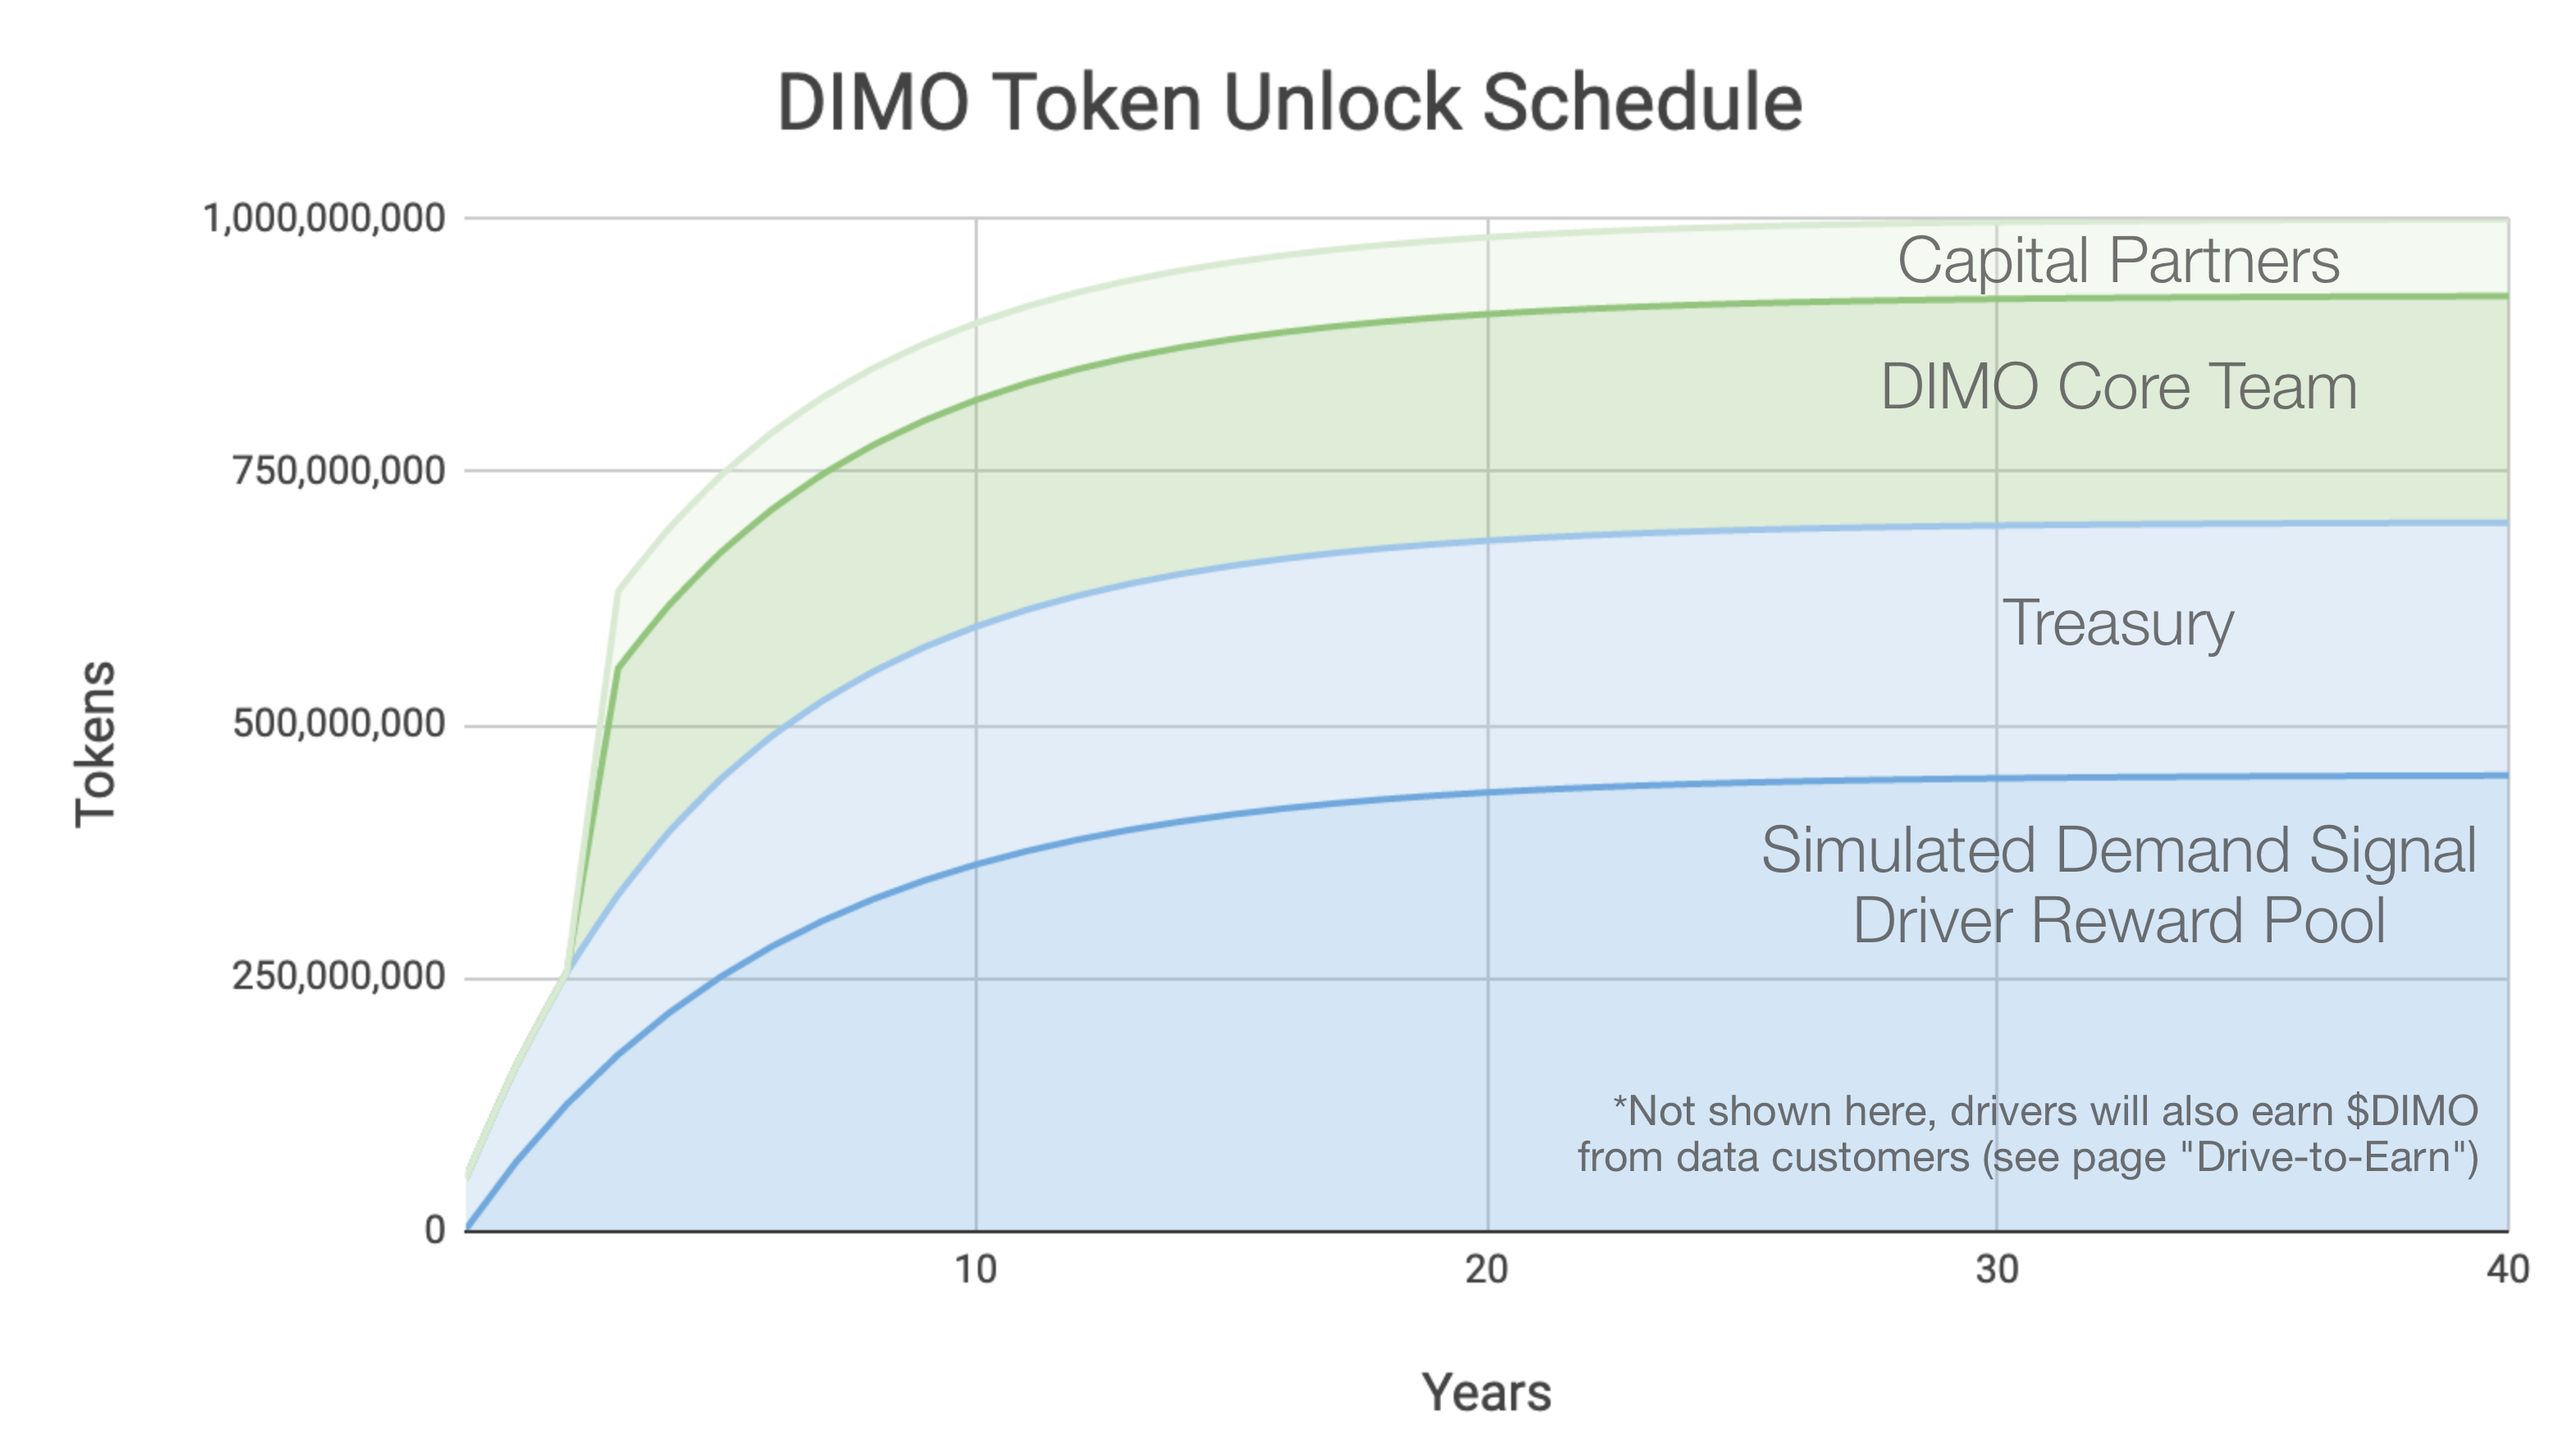
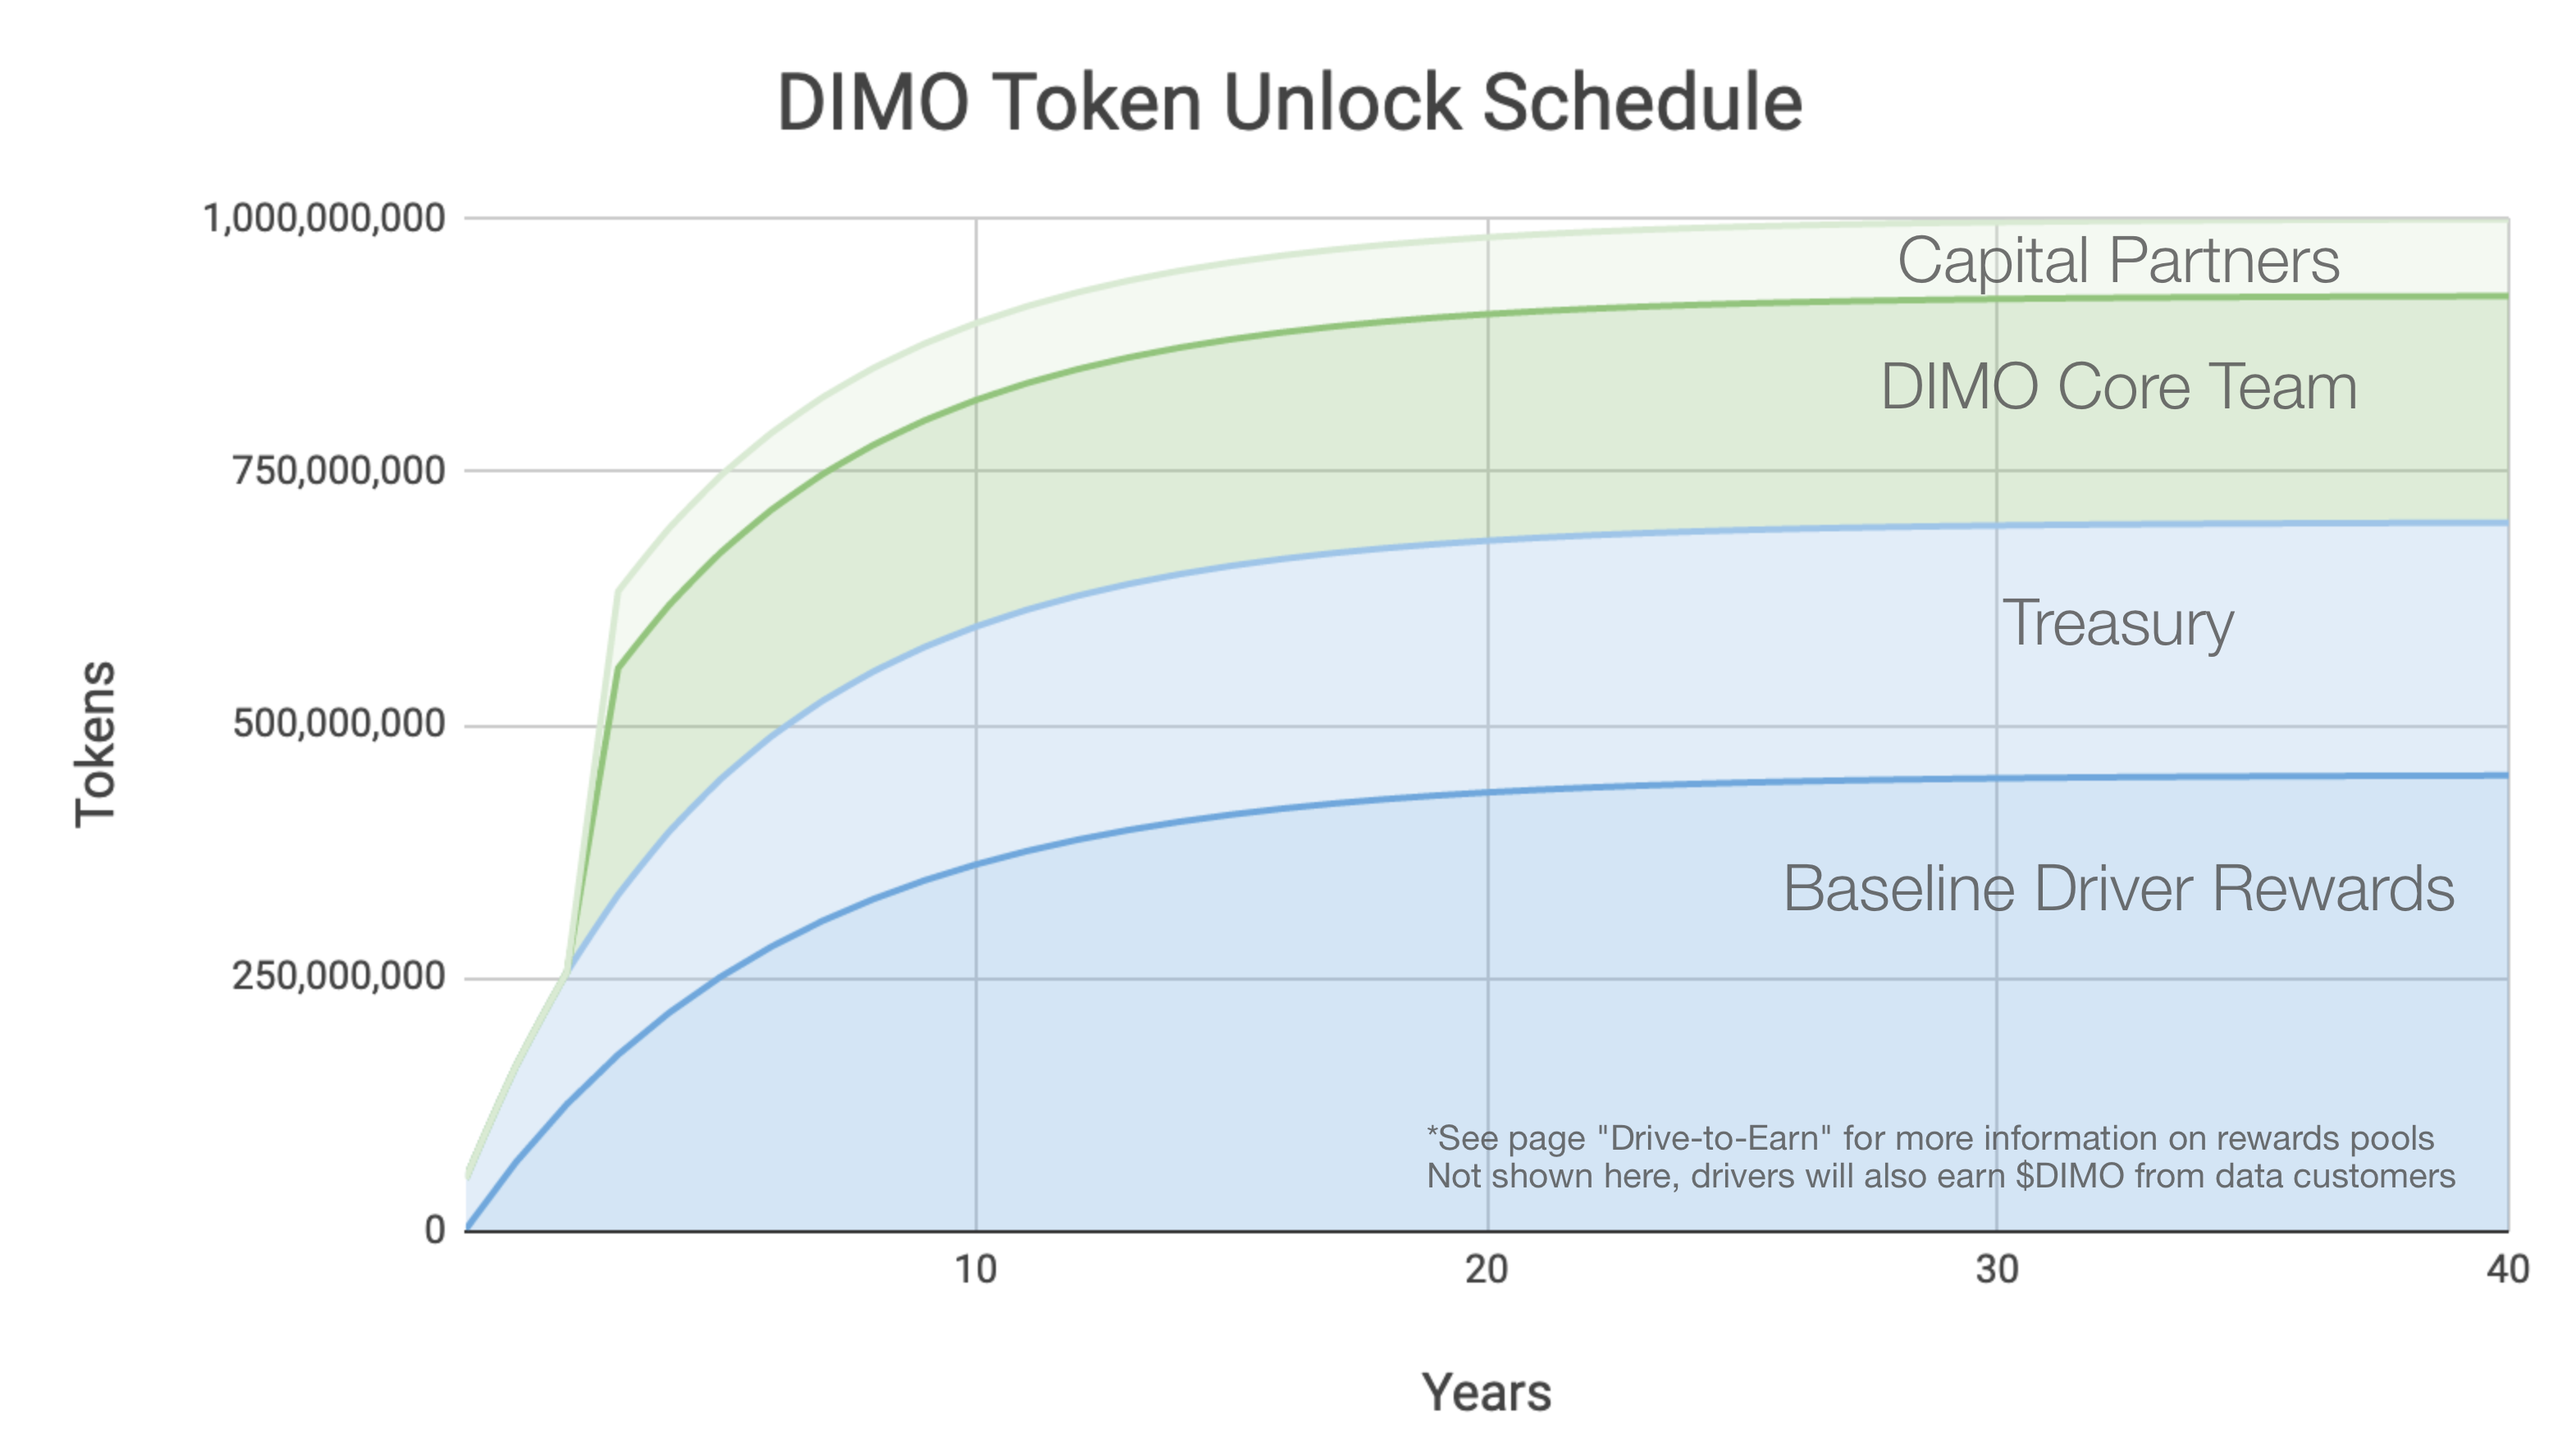
GitBook: [#68] updating points graphic

Changed region(s): [[0.5618, 0.7688, 0.9675, 0.8303], [0.6866, 0.5843, 0.9675, 0.6458]]

diff --git a/token/token-distribution.md b/token/token-distribution.md
@@ -4,7 +4,7 @@ description: The details and rationale for the initial token distribution
 
 # Token Distribution
 
-![Chart depicting approximately when tokens will unlock for various token pools](<../.gitbook/assets/token unlock@2x.png>)
+![Chart depicting approximately when tokens will unlock for various token pools](<../.gitbook/assets/token unlock@2x (1).png>)
 
 The total supply of 1,000,000,000 $DIMO will be allocated in a manner that lines up with industry average allocations for protocol rewards, the DAO treasury, the core team, and capital partners. A community-first approach is important, which is why we’re allocating an above average 70% of tokens to users and the treasury.
 
@@ -18,7 +18,7 @@ Teams and individuals that contribute work to the DAO will receive $DIMO (and/or
 
 ### Driver Rewards
 
-In the first DIMO Improvement Proposal (DIP), the community will vote to earmark a majority of the 700,000,000 $DIMO treasury to a token pool that will incentivize drivers into the future based on Baseline Demand Signal (as described in [Demand Signal](demand-signal.md)), as well as airdrop tokens to early users who connected their vehicles prior to the launch of $DIMO. This proposal would establish the total number of tokens in the pool (likely 450,000,000 $DIMO), the distribution of an airdrop, and the schedule and mechanics for issuing them going forward.
+In the first DIMO Improvement Proposal (DIP), the community will vote to earmark a majority of the 700,000,000 $DIMO treasury to a token pool that will incentivize drivers into the future based on Baseline Demand Signal (as described in [Demand Signal](drive-to-earn.md)), as well as airdrop tokens to early users who connected their vehicles prior to the launch of $DIMO. This proposal would establish the total number of tokens in the pool (likely 450,000,000 $DIMO), the distribution of an airdrop, and the schedule and mechanics for issuing them going forward.
 
 ### DIMO Core Team & Capital Partners&#x20;
 

diff --git a/token/drive-to-earn.md b/token/drive-to-earn.md
@@ -22,9 +22,11 @@ Once the token distribution goes live on mainnnet, the weekly issuance will be a
 
 Throughout each week drivers will earn points depending on the miles and minutes they drive, the types of data they opt-in to provide, and the rarity of their make and model. They will then earn $DIMO tokens based on the percentage of total points that they received for that period. For example, if Alice earns 500,000 points in a week, and a total of 5,000,000,000 points are earned across all drivers in that same week, Alice earns 130 $DIMO (0.01% of points \* 1,300,000 $DIMO issued).
 
-![Planned points formula for allocating $DIMO weekly rewards from the baseline market demand pool](<../.gitbook/assets/Screen Shot 2022-01-06 at 6.27.44 PM (1).png>)
+![Planned points formula for allocating $DIMO weekly rewards from the simulated market demand pool](<../.gitbook/assets/Screen Shot 2022-01-20 at 3.56.08 PM.png>)
 
 Curious how this might function in practice? Take a look at the following hypothetical payouts for a week where 1,500,000,000 points were generated across all drivers. Remember, this is only showing rewards from Baseline Demand Signal and is not taking into account any rewards earned from Market Demand Signal (as described further down).
+
+Curious how this might function in practice? Take a look at the following hypothetical payouts for a week where 1,500,000,000 points were generated across all drivers. Remember, this is only showing rewards from Simulated Demand Signal and is not taking into account any rewards earned from Market Demand Signal (as described further down).
 
 ![Hypothetical distributions by persona assuming all users collectively earned 1.5b points in that week](<../.gitbook/assets/Screen Shot 2022-01-04 at 4.14.41 PM.png>)
 

diff --git a/SUMMARY.md b/SUMMARY.md
@@ -25,7 +25,7 @@
 ## 🪙 Token
 
 * [What is $DIMO](token/what-is-usddimo.md)
-* [Demand Signal](token/demand-signal.md)
+* [Demand Signal](token/drive-to-earn.md)
 * [Other Ways to Earn](token/other-ways-to-earn.md)
 * [Token Distribution](token/token-distribution.md)
 * [Pathway to Launch](token/pathway-to-launch.md)
